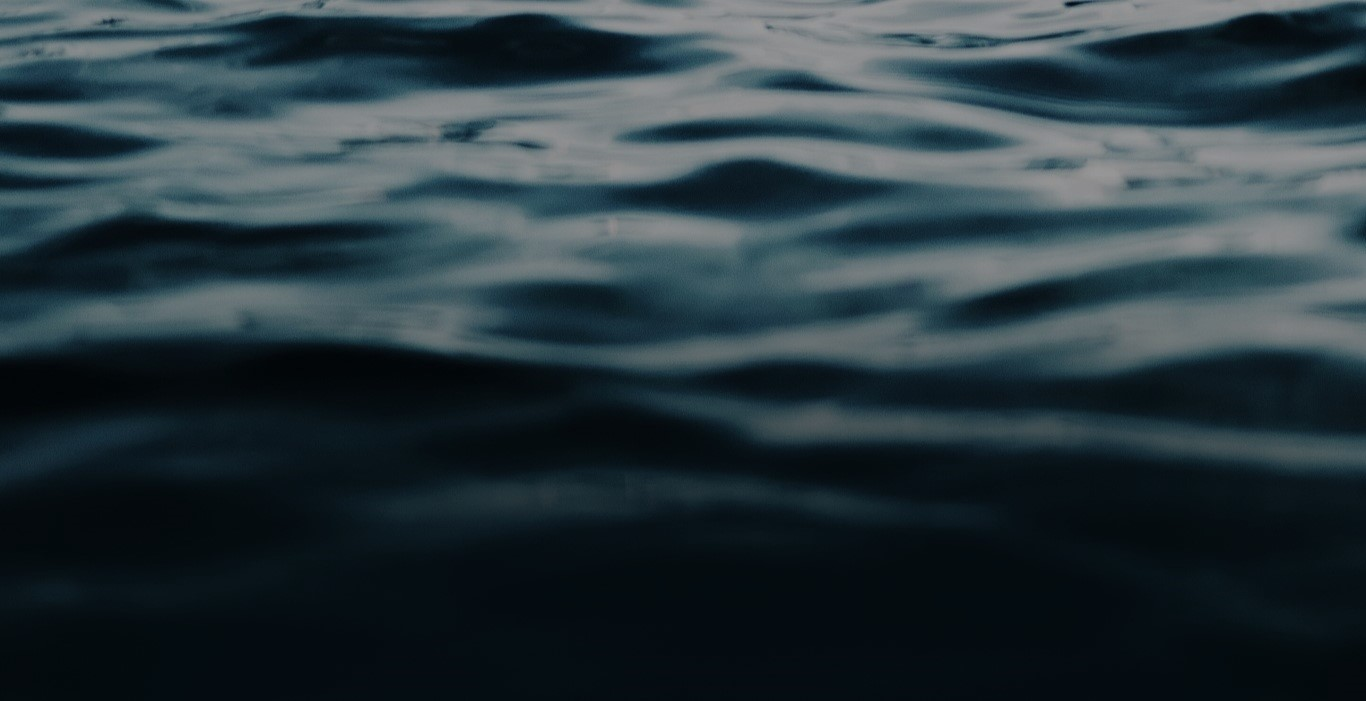
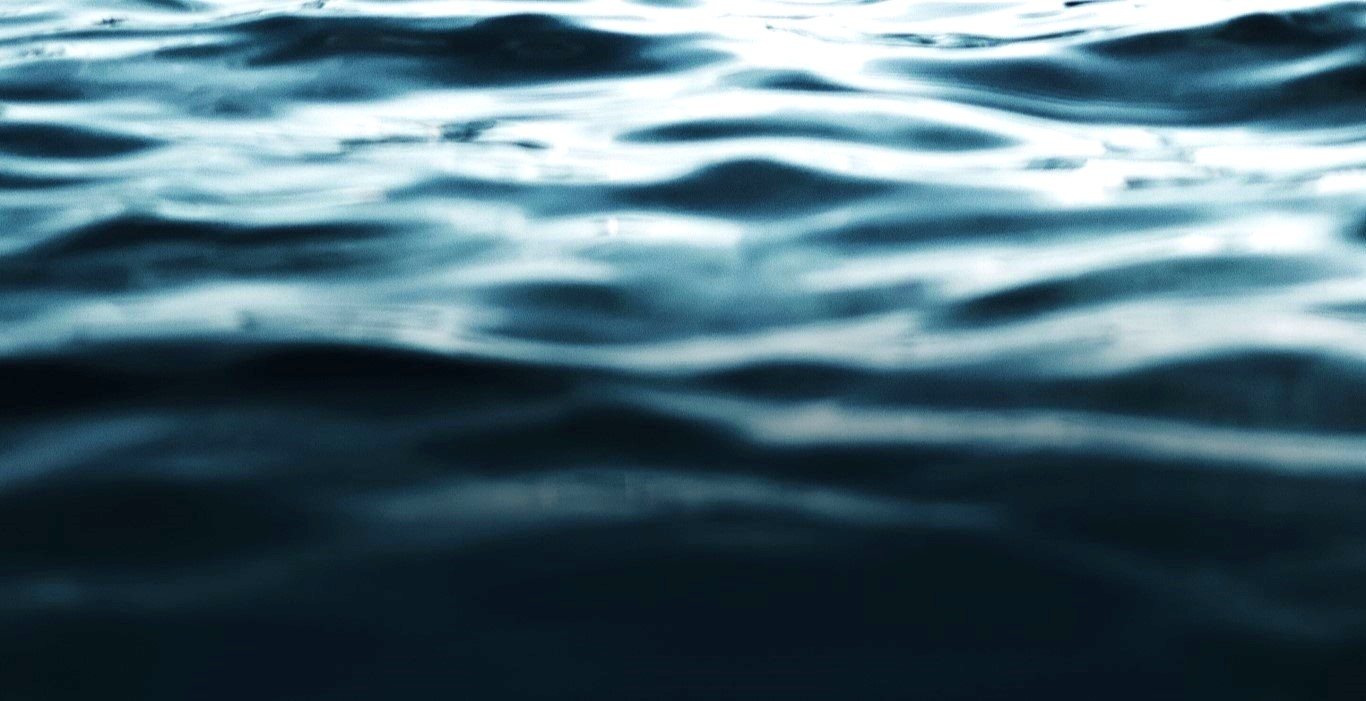
alteração de fundo

diff --git a/landingpage.html b/landingpage.html
@@ -50,8 +50,8 @@
             <div class="problematica-textos">
                 <h1 class="problematica-titulo">Poluição oceânica</h1>
                 <div class="problematica-parags">
-                    <p class="problematica-parag1">Atualmente, os oceanos enfrentam sérios problemas como a de <span>destruição de habitats, poluição e mudanças climáticas</span>, impactando tanto o ecossistema marinho quanto a economia global.</p>
                     <p class="problematica-parag2">As ações humanas na natureza vem trazendo inúmeras consequências para o meio ambiente, principalmente para a vida marinha e para os oceanos no geral. </p>
+                    <p class="problematica-parag1">Atualmente, os oceanos enfrentam sérios problemas como a de <span>destruição de habitats, poluição e mudanças climáticas</span>, impactando tanto o ecossistema marinho quanto a economia global.</p>
                 </div>
             </div>
         </section>

diff --git a/styles/inicio.css b/styles/inicio.css
@@ -1,7 +1,9 @@
 .inicio {
     width: 100%;
     height: 100vh;
-    background: linear-gradient(to bottom, #0A212C 10%, #D9D9D9);
+    background-image: url(imgs/mar.jpg);
+    background-repeat: no-repeat;
+    background-size: cover;
     display: flex;
     align-items: center;
     justify-content:center;
@@ -25,7 +27,7 @@
     width: 509px;
     height: 84px;
     font-size: 35px;
-    color: #06141B;
+    color: white;
 }
 
 @media (max-width: 785px) {

diff --git a/styles/problemática.css b/styles/problemática.css
@@ -1,7 +1,7 @@
 .problematica {
     width: 100%;
     height: 100vh;
-    background: linear-gradient(to bottom, #D9D9D9, #0A212C );
+    background: linear-gradient(to bottom, #071822 20%, #D9D9D9);
     display: flex;
    justify-content: flex-start;
 }
@@ -17,7 +17,7 @@
     font-weight: 400;
     font-size: 20px;
     text-transform: uppercase;
-    color: #06141B;
+    color: white;
 }
 
 .problematica-textos {

diff --git a/styles/beneficios.css b/styles/beneficios.css
@@ -1,7 +1,7 @@
 .beneficios {
     width: 100%;
     height: 100vh;
-    background-image: url(imgs/mar.jpg);
+    background-image: url(imgs/backgroundBeneficios.jpg);
     background-repeat: no-repeat;
     background-size: cover;
     display: flex;
@@ -19,7 +19,7 @@
     font-weight: 300;
     font-size: 20px;
     text-transform: uppercase;
-    color: white;
+    color: #06141B;
 }
 
 .beneficios-textos {

diff --git a/styles/projeto.css b/styles/projeto.css
@@ -1,7 +1,7 @@
 .projeto {
     width: 100%;
     height: 100vh;
-    background: linear-gradient(to bottom, #0A212C, #06141B);
+    background: linear-gradient(to bottom, #d9d9d9, #0A212C);
     display: flex;
     justify-content:center;
 }
@@ -17,7 +17,7 @@
     font-weight: 300;
     font-size: 20px;
     text-transform: uppercase;
-    color: white;
+    color: #06141B;
 }
 
 .projeto-textos {

diff --git a/styles/objetivos.css b/styles/objetivos.css
@@ -1,7 +1,7 @@
 .objetivos {
     width: 100%;
     height: 100vh;
-    background: linear-gradient(to bottom, #06141B 20%, #D9D9D9);
+    background: linear-gradient(to bottom, #0A212C 20%, #D9D9D9);
     display: flex;
     flex-direction: column;
 }

diff --git a/styles/pratica.css b/styles/pratica.css
@@ -1,7 +1,7 @@
 .pratica {
     width: 100%;
     height: 100vh;
-    background: linear-gradient(to bottom, #030f13, #D9D9D9);
+    background: linear-gradient(to bottom, #06141B, #D9D9D9);
     display: flex;
     justify-content: flex-start;
 }
